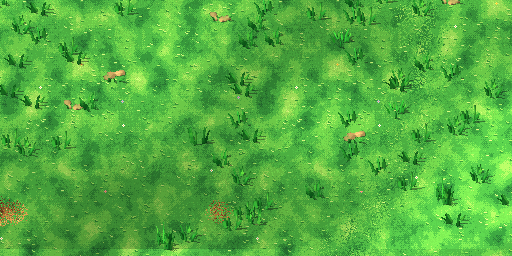
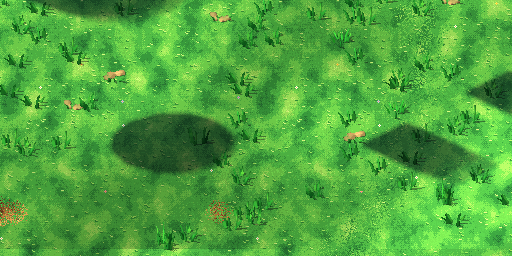
Terreno: sombra projetada do relevo no piso (luz cima-esquerda, 3 faixas, dither de Bayer)
Claude-Session: https://claude.ai/code/session_01MRD4icKu6HtTnhwYzrjr8V

diff --git a/game/tools/terrain/ground_detail.py b/game/tools/terrain/ground_detail.py
@@ -282,3 +282,92 @@ def biome_grid(ter, IDX, cell=32, max_d=6):
             nb = np.where(hit, o, nb)
             dist = np.where(hit, d - 1, dist)
     return dom, nb, dist
+
+
+# ------------------------------------------------------------------ sombras projetadas do relevo (sol no alto à esquerda)
+SHADOW_PX = 30.0                       # px de jogo por unidade de mundo (60 px/u renderizados × draw_scale .5)
+
+
+def _proj(x, y):
+    """Coordenadas locais do asset (unidades) -> deslocamento em tela (px), mesma projeção 2:1 do rig."""
+    return (.7071 * (y - x) * SHADOW_PX, .5 * .7071 * (x + y) * SHADOW_PX)
+
+
+def shadow_spec(asset):
+    """(formas, altura em unidades). forma: ('rect', cx, cy, sx, sy) em unidades locais ou ('ell', cx, cy, rx, ry)."""
+    a = asset
+    if a.startswith('nat_plateau_') and a.endswith('_s'):
+        return [('rect', 0, 0, 2.0, 2.0)], 1.6
+    if a.startswith('nat_plateau_') and a.endswith('_m'):
+        return [('rect', 0, 0, 3.2, 3.2)], 2.1
+    if a.startswith('nat_ridge_'):
+        return ([('rect', 0, 0, 4.6, 1.8)] if a.endswith('_a') else [('rect', 0, 0, 1.8, 4.6)]), 1.7
+    if a.startswith('nat_wall_cliff_'):
+        return ([('rect', 0, 0, 3.6, 1.15)] if a.endswith('_a') else [('rect', 0, 0, 1.15, 3.6)]), 2.7
+    if a.startswith('nat_cliff_end_'):
+        ax = '_a' in a
+        return ([('rect', 0, 0, 2.6, 1.0)] if ax else [('rect', 0, 0, 1.0, 2.6)]), 1.7
+    if a.startswith('nat_cliff_corner_'):
+        return [('rect', -.7, 0, 2.6, 1.15), ('rect', .7, -.72, 1.15, 1.45)], 2.6
+    if a.startswith('nat_hill_wide_'):
+        return [('ell', 0, 0, 2.6, 2.3)], 1.1
+    if a.startswith('nat_hill_low_'):
+        return [('ell', 0, 0, 2.0, 1.8)], .4
+    if a.startswith('nat_hill_'):
+        return [('ell', 0, 0, 1.4, 1.3)], .8
+    if a in ('nat_rock_pillars',):
+        return [('ell', 0, 0, .9, .9)], 2.0
+    return None
+
+
+def relief_shadows(img, ter, IDX, objects, w, h, bay, strength=.5):
+    """Sombra projetada do relevo no piso: varredura da base na direção da luz, mais escura junto ao pé e esmaecendo; penumbra pontilhada."""
+    from PIL import ImageDraw, ImageFilter
+    mask = Image.new('L', (w, h), 0)
+    dr = ImageDraw.Draw(mask)
+    casters = []
+    for o in objects:
+        if o.get('zone') != 'cidade':
+            continue
+        spec = shadow_spec(str(o['asset']))
+        if spec is not None:
+            casters.append((float(o['pos'][0]), float(o['pos'][1]), spec))
+    for (t, val) in ((1.0, 100), (.66, 170), (.33, 240)):          # do fim da sombra até o pé: cada passada só escurece
+        for px, py, (shapes, hu) in casters:
+            hp = hu * SHADOW_PX
+            vx, vy = hp * 1.05 * t, hp * .42 * t                     # luz de cima-esquerda: sombra cai para baixo-direita
+            for shp in shapes:
+                if shp[0] == 'rect':
+                    _, cx, cy, sx, sy = shp
+                    pts = [_proj(cx + dx * sx / 2, cy + dy * sy / 2) for dx, dy in ((-1, -1), (1, -1), (1, 1), (-1, 1))]
+                else:
+                    _, cx, cy, rx, ry = shp
+                    pts = [_proj(cx + math.cos(k * .5236) * rx, cy + math.sin(k * .5236) * ry) for k in range(12)]
+                allp = [(px + a, py + b) for a, b in pts] + [(px + a + vx, py + b + vy) for a, b in pts]
+                dr.polygon(_hull(allp), fill=val)
+    m = np.asarray(mask.filter(ImageFilter.GaussianBlur(2.2)), dtype=np.float32) / 255.0
+    lvl = np.clip(m * 1.35, 0, 1)
+    lvl = np.floor(lvl * 4 + (bay - .5) * .9 + .5) / 4.0              # 4 degraus com dither de Bayer (pixel art)
+    skip = np.isin(ter, [IDX[k] for k in ('water_deep', 'water_shallow', 'cobble', 'deck_wood', 'deck_stone', 'deck_wood_v')])
+    lvl = np.where(skip, 0.0, lvl)
+    mul = np.stack([1 - strength * 1.05 * lvl, 1 - strength * lvl, 1 - strength * .72 * lvl], -1)
+    return np.clip(img.astype(np.float32) * mul, 0, 255).astype(np.uint8), len(casters)
+
+
+def _hull(points):
+    pts = sorted(set((round(x, 2), round(y, 2)) for x, y in points))
+    if len(pts) <= 2:
+        return pts
+
+    def cross(o, a, b):
+        return (a[0] - o[0]) * (b[1] - o[1]) - (a[1] - o[1]) * (b[0] - o[0])
+    lower, upper = [], []
+    for p in pts:
+        while len(lower) >= 2 and cross(lower[-2], lower[-1], p) <= 0:
+            lower.pop()
+        lower.append(p)
+    for p in reversed(pts):
+        while len(upper) >= 2 and cross(upper[-2], upper[-1], p) <= 0:
+            upper.pop()
+        upper.append(p)
+    return lower[:-1] + upper[:-1]

diff --git a/game/tools/terrain/bake_ground.py b/game/tools/terrain/bake_ground.py
@@ -370,6 +370,8 @@ def bake_world(textures, world):
     img = colorize(ter, textures, 0, 0, seeds)
     img = draw_bridge_rails(img, 0, 0)
     img = finish_ground(img, ter, seeds, W, H)
+    img, n_sh = GD.relief_shadows(img, ter, IDX, world.get('objects', []), W, H, bayer(H, W))
+    print('  sombras projetadas do relevo:', n_sh)
     dom, nb, dist = GD.biome_grid(ter, IDX)
     rows = [''.join(GD.FAM_LETTER[int(v)] for v in r) for r in dom]
     nbs = [''.join(GD.FAM_LETTER[int(v)] for v in r) for r in nb]
